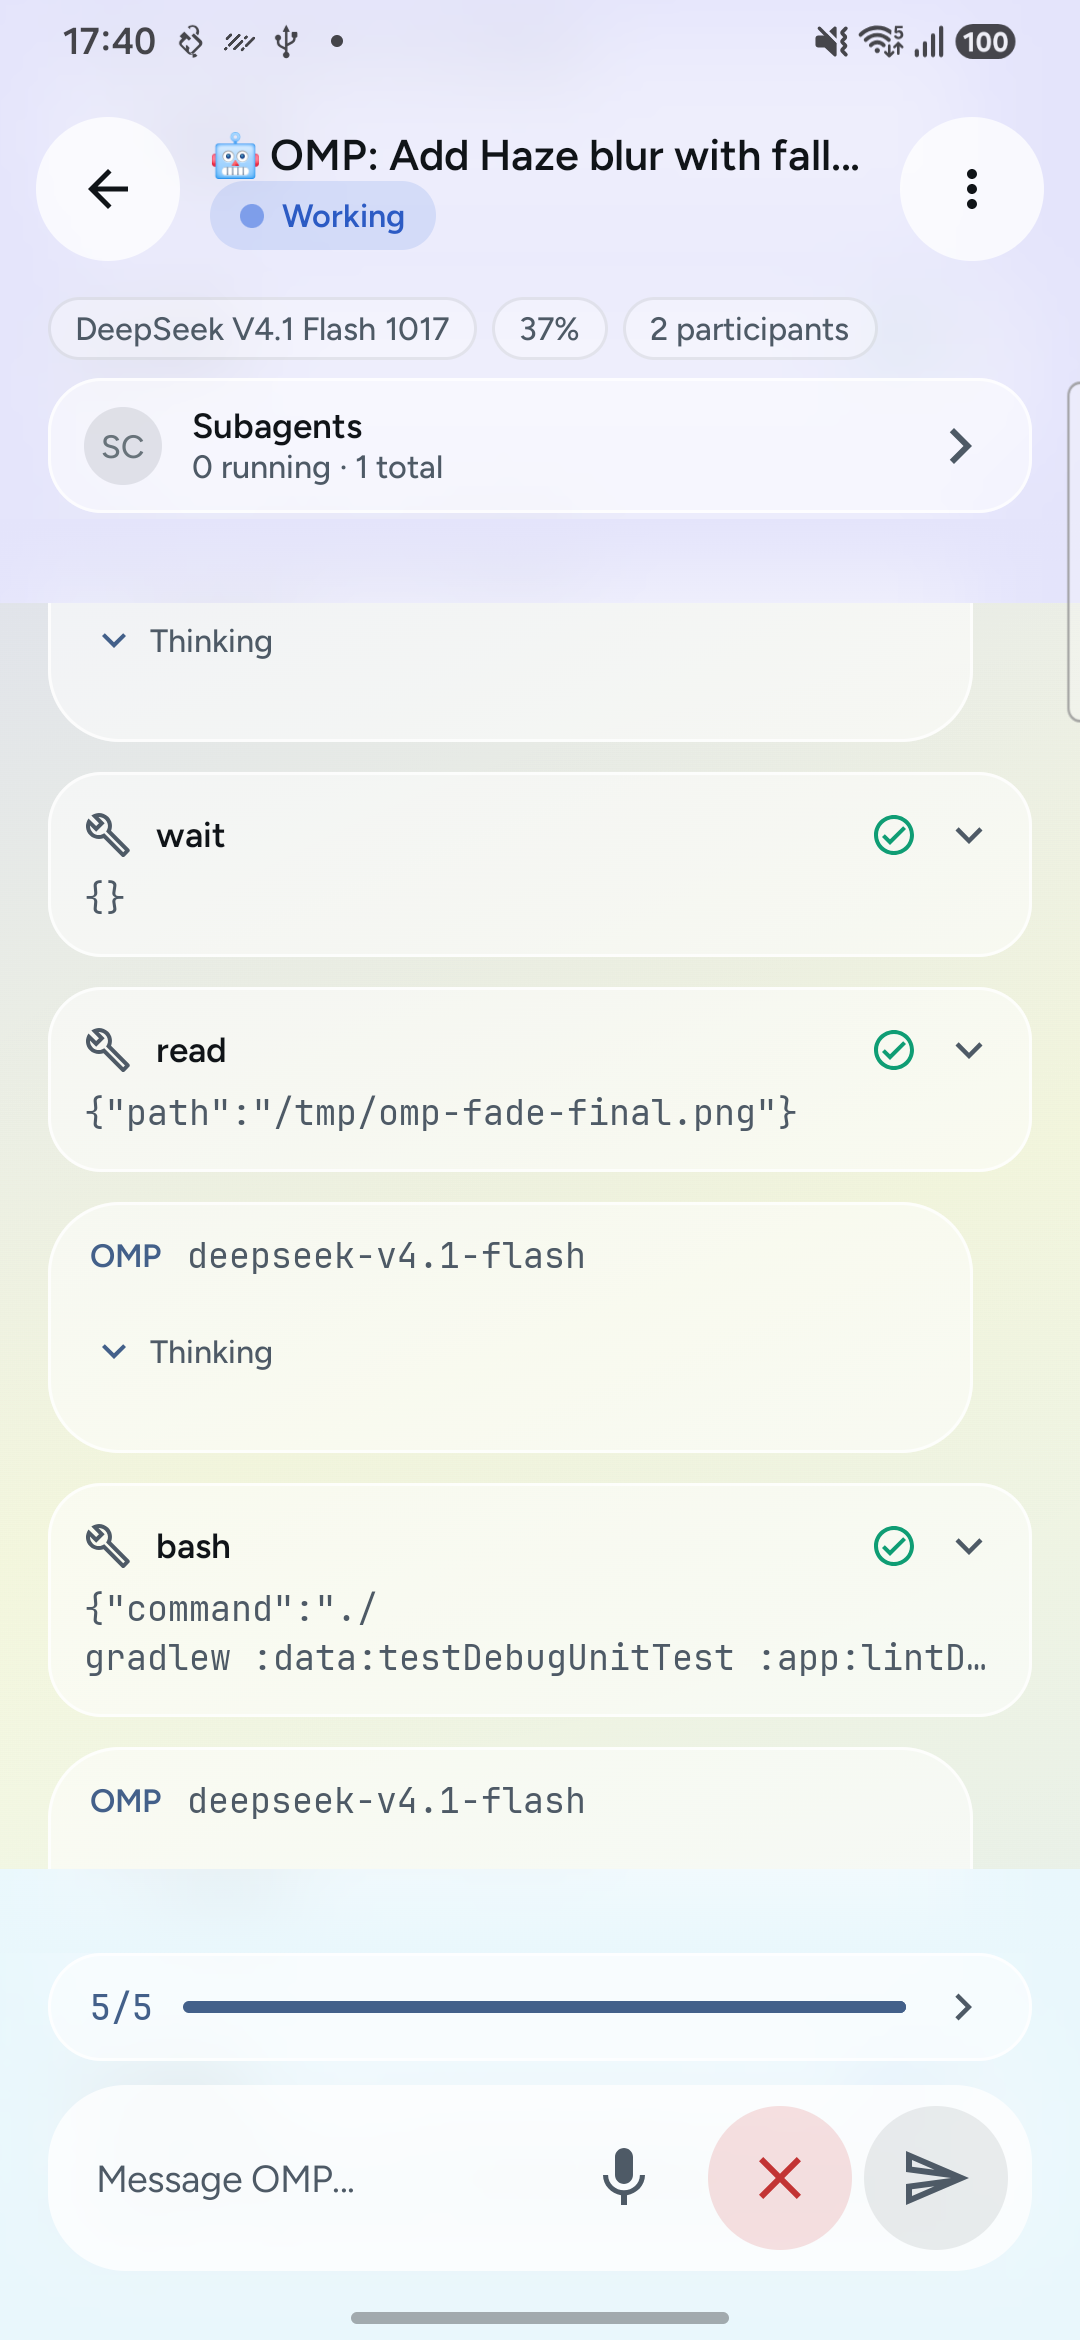
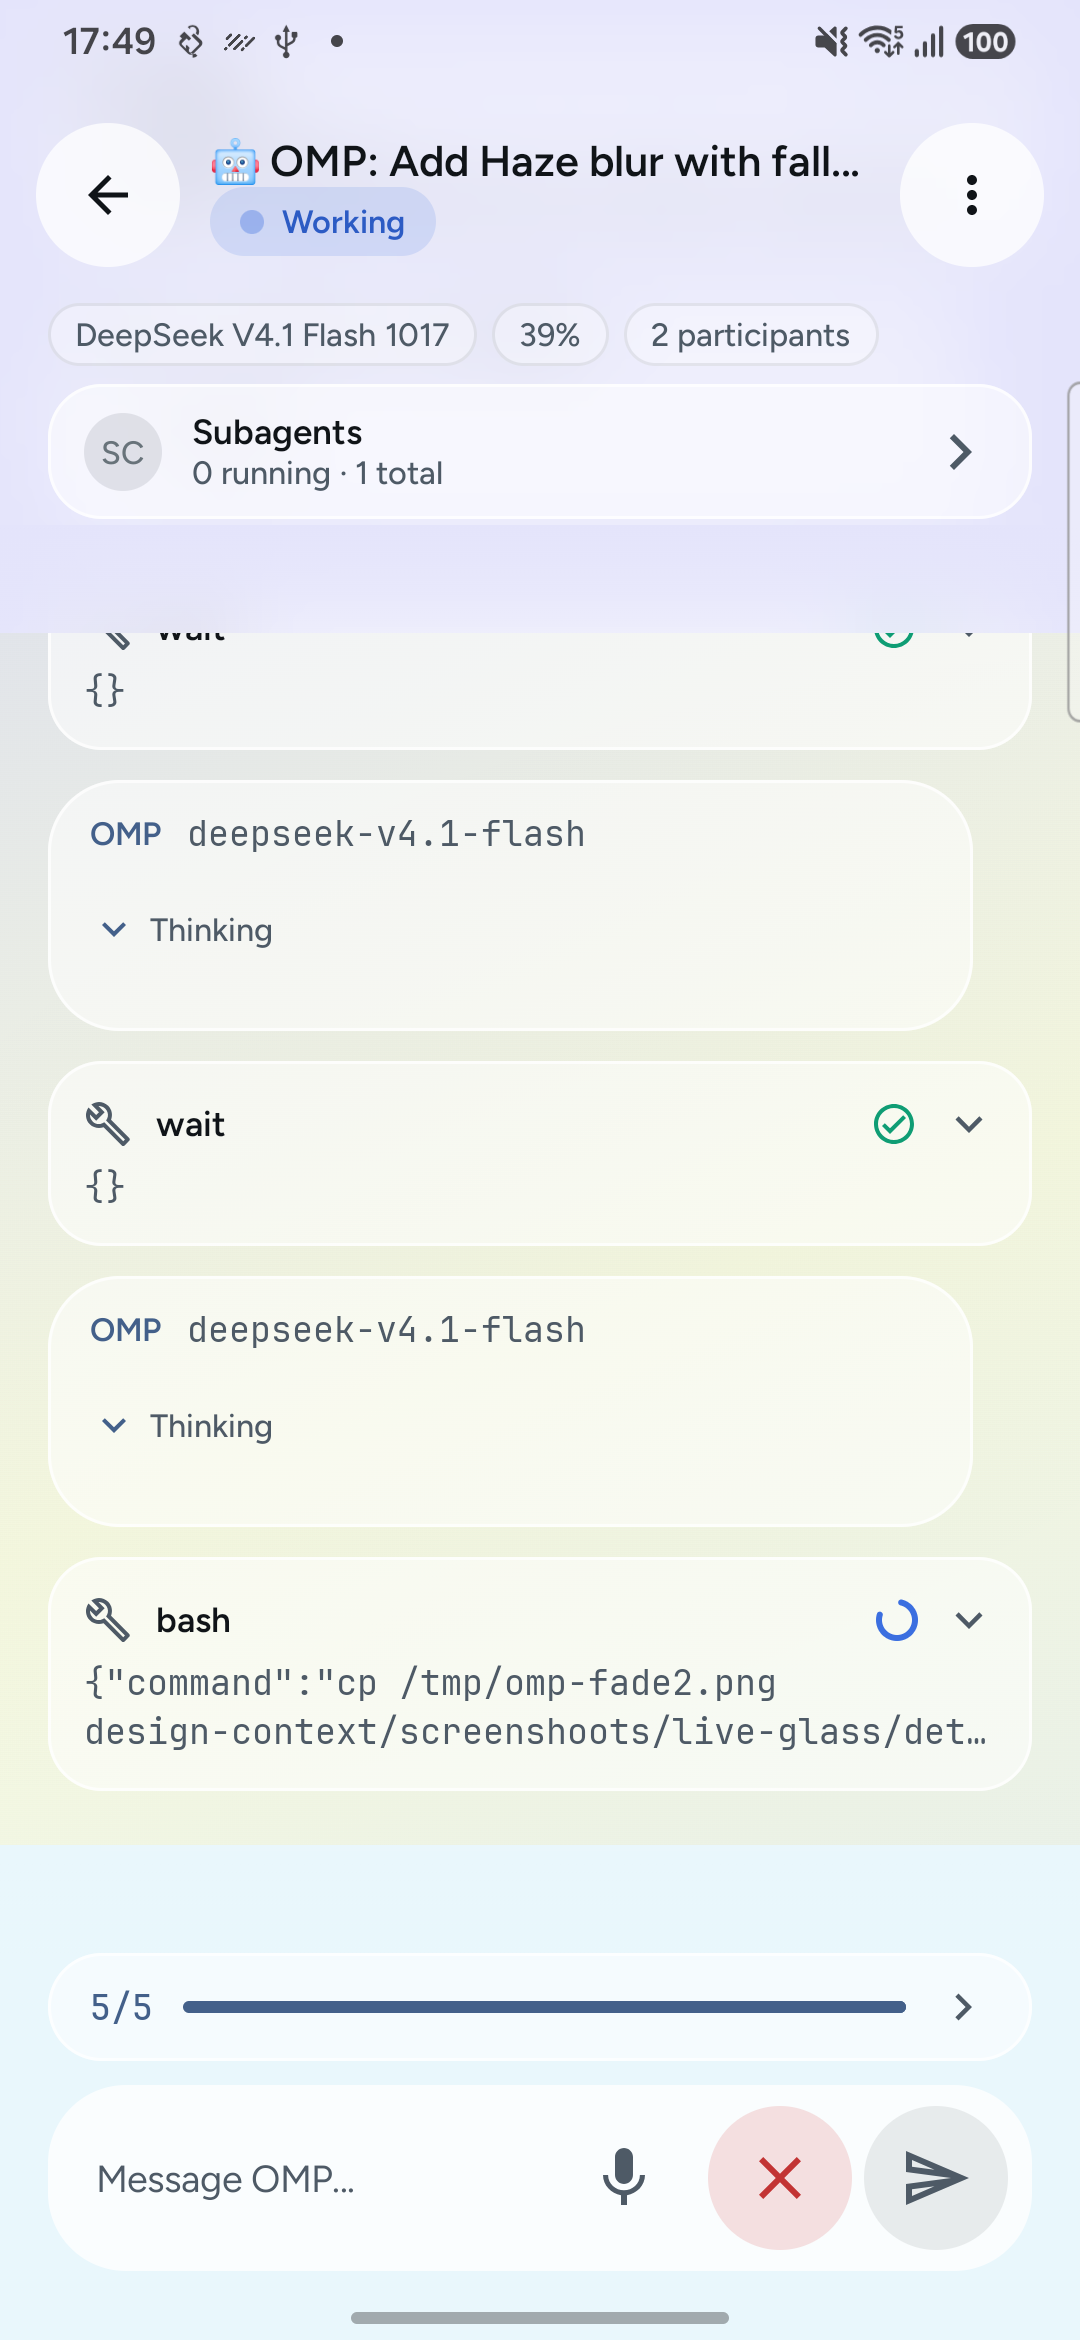
Reserve chrome space and fade chat under it

diff --git a/app/src/main/kotlin/com/ompsessionconnect/ui/detail/SessionDetailScreen.kt b/app/src/main/kotlin/com/ompsessionconnect/ui/detail/SessionDetailScreen.kt
@@ -93,7 +93,9 @@ import android.os.Build
 import androidx.compose.ui.draw.BlurredEdgeTreatment
 import androidx.compose.ui.graphics.Brush
 import androidx.compose.ui.graphics.SolidColor
+import androidx.compose.ui.layout.onSizeChanged
 import androidx.compose.ui.platform.LocalContext
+import androidx.compose.ui.platform.LocalDensity
 import androidx.compose.ui.platform.LocalResources
 import androidx.compose.ui.res.painterResource
 import androidx.compose.ui.res.pluralStringResource
@@ -220,7 +222,7 @@ fun SessionDetailScreen(
   }
 }
 
-private val ChromeFade = 28.dp
+private val ChromeFade = 36.dp
 
 private fun chromeBlurStyle(field: Color, dark: Boolean): HazeBlurStyle = HazeBlurStyle {
   blurRadius(24.dp)
@@ -254,6 +256,8 @@ private fun SessionDetailContent(
   var todoSheetOpen by remember { mutableStateOf(false) }
   val listState = rememberLazyListState()
   val hazeState = rememberHazeState()
+  var topChromeHeightPx by remember { mutableStateOf(0) }
+  var bottomChromeHeightPx by remember { mutableStateOf(0) }
   val scope = rememberCoroutineScope()
   val context = LocalContext.current
   val voicePermissionDeniedText = stringResource(R.string.voice_permission_denied)
@@ -340,6 +344,17 @@ private fun SessionDetailContent(
 
   val blurAvailable = Build.VERSION.SDK_INT >= Build.VERSION_CODES.S
   val legacyInsets = !blurAvailable
+  val density = LocalDensity.current
+  val topContentInset = if (blurAvailable && topChromeHeightPx > 0) {
+    with(density) { topChromeHeightPx.toDp() } + 8.dp
+  } else {
+    16.dp
+  }
+  val bottomContentInset = if (blurAvailable && bottomChromeHeightPx > 0) {
+    with(density) { bottomChromeHeightPx.toDp() } + 8.dp
+  } else {
+    16.dp
+  }
   val topBlurStyle = remember(tokens.fieldA, tokens.dark) {
     chromeBlurStyle(tokens.fieldA, tokens.dark)
   }
@@ -373,8 +388,8 @@ private fun SessionDetailContent(
         contentPadding = androidx.compose.foundation.layout.PaddingValues(
           start = 16.dp,
           end = 16.dp,
-          top = if (legacyInsets) 200.dp else 16.dp,
-          bottom = if (legacyInsets) 140.dp else 16.dp,
+          top = if (legacyInsets) 200.dp else topContentInset,
+          bottom = if (legacyInsets) 140.dp else bottomContentInset,
         ),
         verticalArrangement = Arrangement.spacedBy(10.dp),
       ) {
@@ -420,6 +435,7 @@ private fun SessionDetailContent(
         .fillMaxWidth()
         .zIndex(3f)
         .then(chromeBlur(topBlurStyle))
+        .onSizeChanged { topChromeHeightPx = it.height }
         .then(
           if (blurAvailable) {
             Modifier
@@ -433,7 +449,7 @@ private fun SessionDetailContent(
           .fillMaxWidth()
           .zIndex(2f)
           .statusBarsPadding()
-          .padding(top = 6.dp, bottom = ChromeFade),
+          .padding(top = 8.dp, bottom = ChromeFade),
       ) {
         Row(
           modifier = Modifier.padding(horizontal = 12.dp, vertical = 8.dp),
@@ -531,7 +547,11 @@ private fun SessionDetailContent(
           .zIndex(3f)
           .background(
             Brush.verticalGradient(
-              colors = listOf(tokens.fieldA, Color.Transparent),
+              colorStops = arrayOf(
+                0f to tokens.fieldA,
+                0.55f to tokens.fieldA.copy(alpha = 0.55f),
+                1f to Color.Transparent,
+              ),
             ),
           ),
       )
@@ -542,7 +562,8 @@ private fun SessionDetailContent(
         .align(Alignment.BottomCenter)
         .fillMaxWidth()
         .zIndex(3f)
-        .then(chromeBlur(bottomBlurStyle)),
+        .then(chromeBlur(bottomBlurStyle))
+        .onSizeChanged { bottomChromeHeightPx = it.height },
     ) {
       if (snapshot != null) {
         Column(
@@ -635,7 +656,11 @@ private fun SessionDetailContent(
           .zIndex(3f)
           .background(
             Brush.verticalGradient(
-              colors = listOf(Color.Transparent, tokens.fieldC),
+              colorStops = arrayOf(
+                0f to Color.Transparent,
+                0.45f to tokens.fieldC.copy(alpha = 0.55f),
+                1f to tokens.fieldC,
+              ),
             ),
           ),
       )
